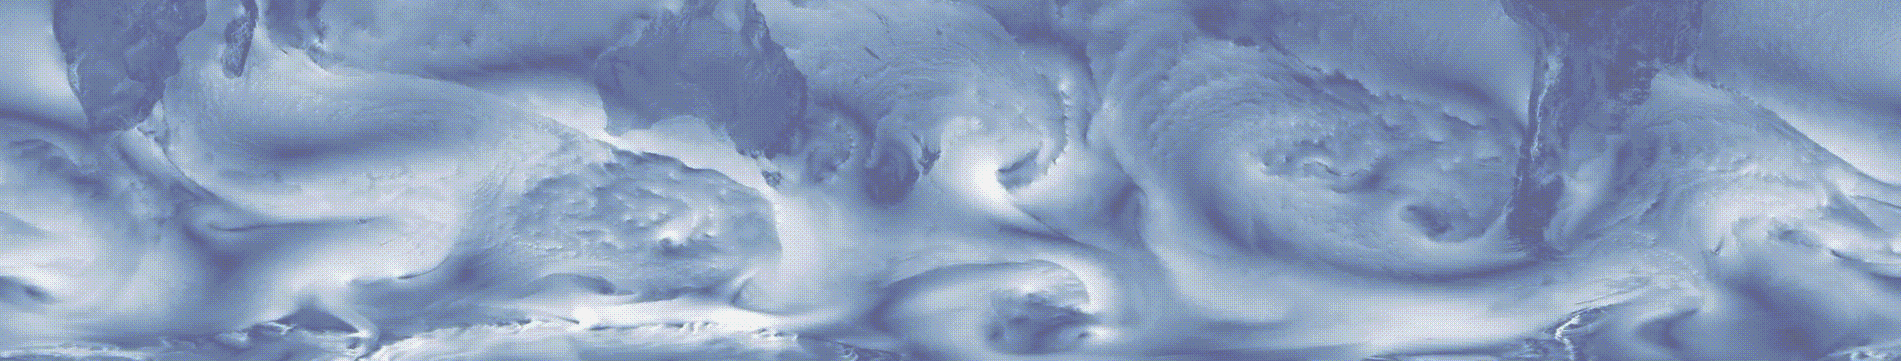
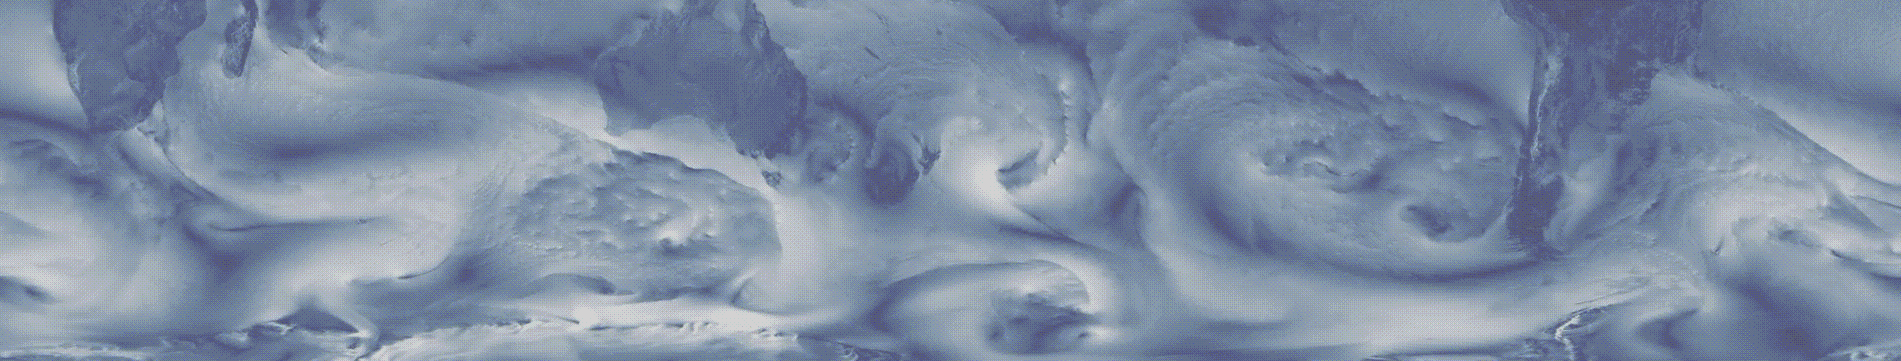
fix: remove extra header

diff --git a/_includes/masthead.html b/_includes/masthead.html
@@ -2,7 +2,7 @@
 
 <div class="masthead">
   <div class="masthead__brand">
-    <a href="{{ base_path }}/about/" aria-label="About {{ site.author.name | default: site.title }}">
+    <a href="{{ base_path }}/" aria-label="About {{ site.author.name | default: site.title }}">
       {{ site.author.name | default: site.title }}
     </a>
     <br>

diff --git a/_sass/_masthead.scss b/_sass/_masthead.scss
@@ -11,7 +11,7 @@
   padding-left: 0;
   max-width: 100vw;
   width: 100%;
-  background-image: url('/../images/coas-img-3.png');
+  background-image: url('/../images/coas-img-2.png');
   background-position: center center;
   background-size: cover;
   background-repeat: no-repeat;

diff --git a/_pages/publications.html b/_pages/publications.html
@@ -5,9 +5,9 @@ permalink: /publications/
 author_profile: false
 redirect_from:
   - /publications
-header:
+<!-- header:
   overlay_image: storms.png
-  overlay_filter: 0
+  overlay_filter: 0 -->
 ---
 <h1 class="archive__title">Publications</h1>
 <br>

diff --git a/_pages/updates.html b/_pages/updates.html
@@ -5,9 +5,9 @@ title: " "
 author_profile: false
 redirect_from:
   - /posts
-header:
+<!-- header:
   overlay_image: berg-jen.jpg
-  overlay_filter: 0
+  overlay_filter: 0 -->
 ---
 <h1 class="archive__title">Updates</h1>
 <br>

diff --git a/_pages/fieldwork.md b/_pages/fieldwork.md
@@ -5,10 +5,10 @@ permalink: /fieldwork/
 author_profile: false
 redirect_from:
   - /fieldwork
-header:
-  overlay_image: ship-sunset.jpg
-  overlay_filter: 0
-  caption: "Sunrise far out into the Southern Ocean, taken from the R/V S.A. Agulhas II"
+# header:
+#   overlay_image: ship-sunset.jpg
+#   overlay_filter: 0
+#   caption: "Sunrise far out into the Southern Ocean, taken from the R/V S.A. Agulhas II"
 
 ---
 

diff --git a/_pages/vr.md b/_pages/vr.md
@@ -5,10 +5,10 @@ permalink: /vr/
 author_profile: true
 redirect_from:
   - /group
-header:
-  overlay_image: coas-short.gif
-  overlay_filter: 0
-  caption: "Credit: Hector Torres @ JPL-NASA"
+# header:
+#   overlay_image: coas-short.gif
+#   overlay_filter: 0
+#   caption: "Credit: Hector Torres @ JPL-NASA"
 ---
 
 <div class="team-row" style="display: flex; flex-wrap: wrap; gap: 1.5rem; margin-top: 1.0rem;">

diff --git a/_pages/professional-guidelines.md b/_pages/professional-guidelines.md
@@ -5,9 +5,9 @@ permalink: /professional-guidelines/
 author_profile: false
 redirect_from:
   - /professional-guidelines
-header:
-  overlay_image: sea-ice-pano.jpg
-  overlay_filter: 0
+# header:
+#   overlay_image: sea-ice-pano.jpg
+#   overlay_filter: 0
 ---
 
 These are the professional guidelines that help support our work. It should also give clarity to your role and responsibility within the group. 

diff --git a/_pages/sofia.md b/_pages/sofia.md
@@ -5,10 +5,10 @@ permalink: /vr/
 author_profile: true
 redirect_from:
   - /group
-header:
-  overlay_image: coas-short.gif
-  overlay_filter: 0
-  caption: "Credit: Hector Torres @ JPL-NASA"
+# header:
+#   overlay_image: coas-short.gif
+#   overlay_filter: 0
+#   caption: "Credit: Hector Torres @ JPL-NASA"
 ---
 
 # Southern Ocean Fine-Scale Interactions with the Atmosphere

diff --git a/_pages/group.md b/_pages/group.md
@@ -5,9 +5,9 @@ permalink: /group/
 author_profile: false
 redirect_from:
   - /group
-header:
-  overlay_image: sea-ice-pano.jpg
-  overlay_filter: 0
+# header:
+#   overlay_image: sea-ice-pano.jpg
+#   overlay_filter: 0
 ---
 
 # Research Group

diff --git a/_pages/cv.md b/_pages/cv.md
@@ -5,9 +5,9 @@ permalink: /cv/
 author_profile: false
 redirect_from:
   - /resume
-header:
-  overlay_image: ctd.jpg
-  overlay_filter: 0
+# header:
+#   overlay_image: ctd.jpg
+#   overlay_filter: 0
 ---
 
 <h1 class="archive__title">CV</h1>

diff --git a/_pages/community.md b/_pages/community.md
@@ -5,9 +5,9 @@ permalink: /community/
 author_profile: false
 redirect_from:
   - /community
-header:
-  overlay_image: ice-berg.jpg
-  overlay_filter: 0
+# header:
+#   overlay_image: ice-berg.jpg
+#   overlay_filter: 0
 ---
 
 # Community 

diff --git a/_pages/projects.md b/_pages/projects.md
@@ -5,9 +5,9 @@ permalink: /projects/
 author_profile: false
 redirect_from:
   - /projects
-header:
-  overlay_image: petrel.JPG
-  overlay_filter: 0
+# header:
+#   overlay_image: petrel.JPG
+#   overlay_filter: 0
 ---
 
 # Projects
